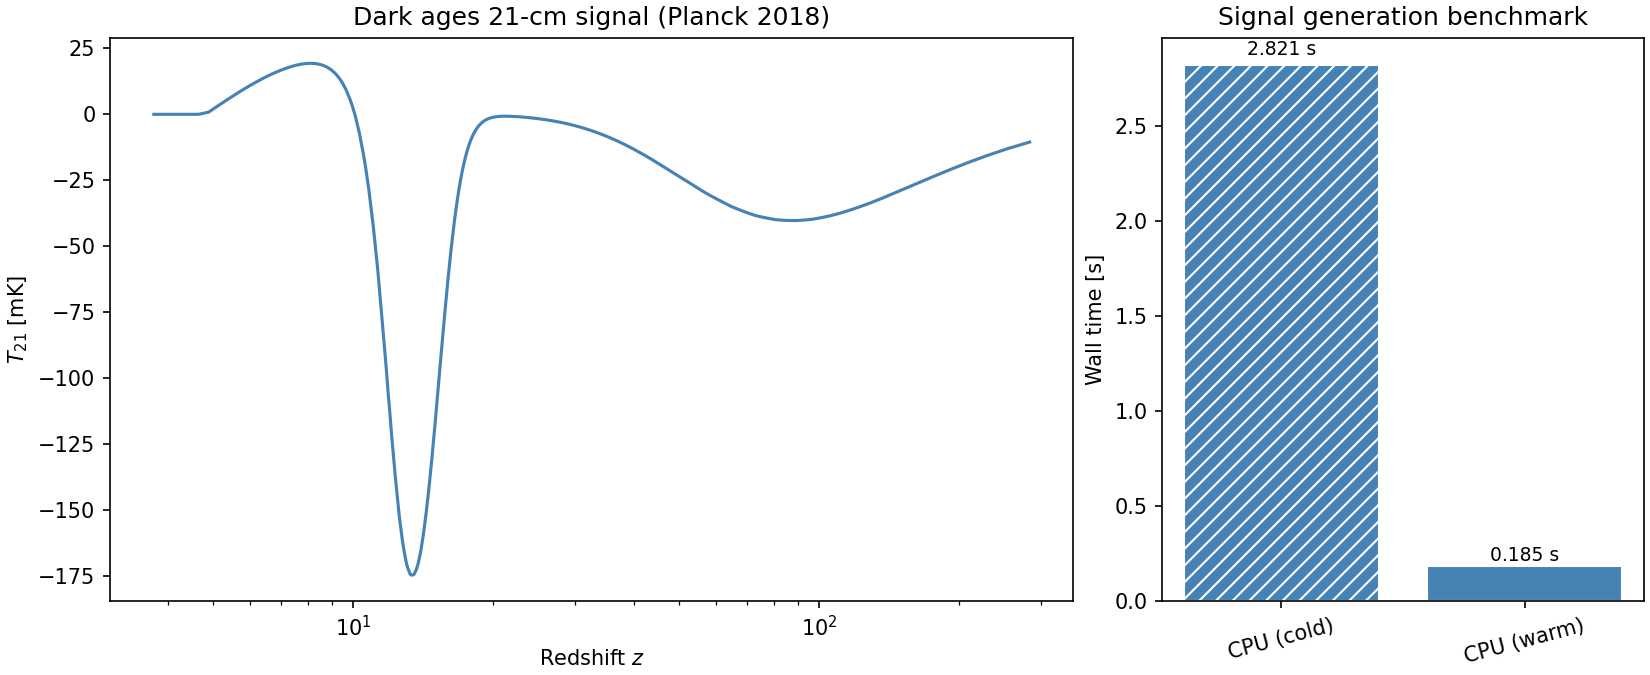
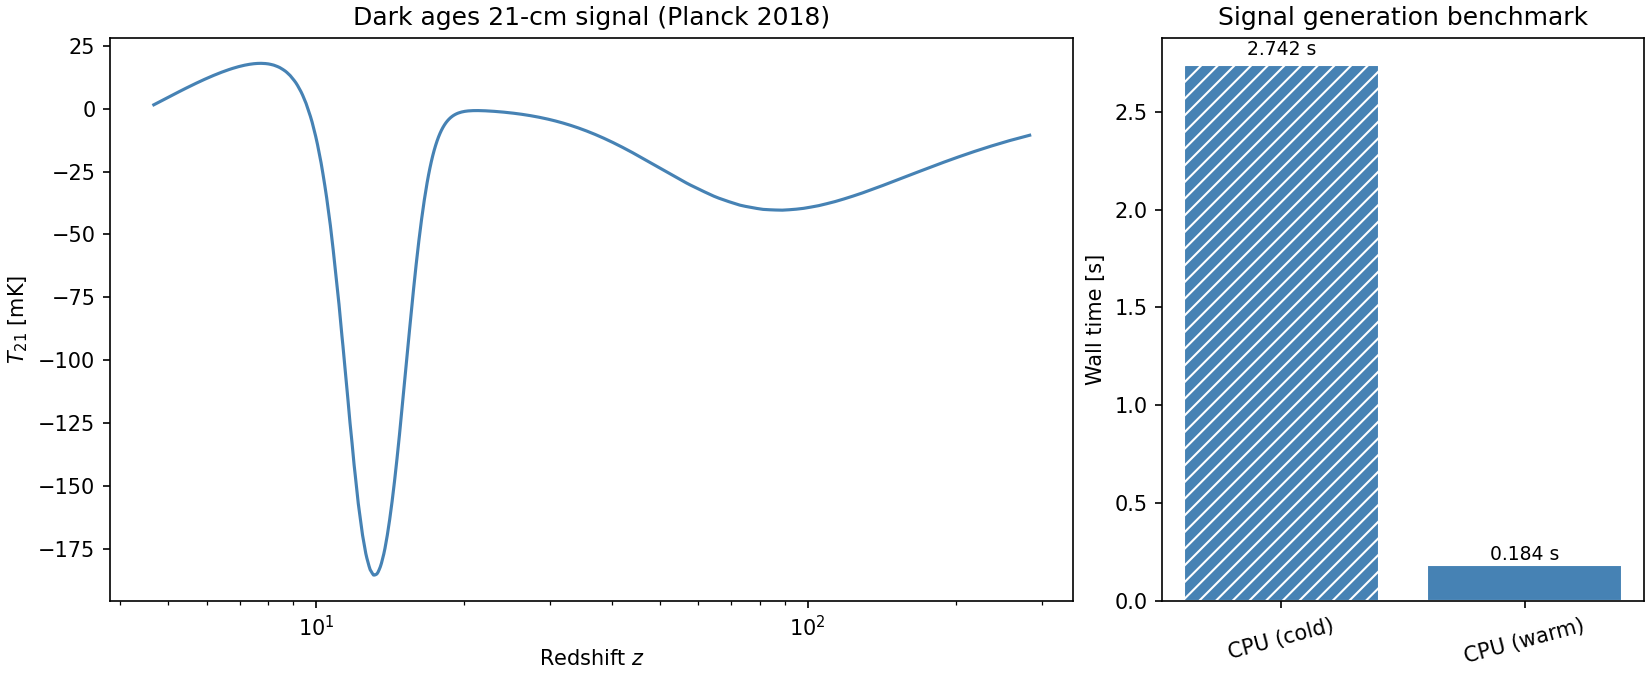
tweak fgrid and print z max and min

diff --git a/bin/benchmark.py b/bin/benchmark.py
@@ -7,6 +7,7 @@ from pathlib import Path
 sys.path.insert(0, str(Path(__file__).resolve().parent.parent))
 
 from jax import config
+
 config.update("jax_enable_x64", True)
 
 import jax
@@ -28,7 +29,7 @@ planck = cosmology()
 
 astro = astrophysics()
 
-f_grid = jnp.linspace(5.0, 300.0, 500)  # MHz
+f_grid = jnp.linspace(5.0, 250.0, 500)  # MHz
 
 
 def time_device(device: jax.Device) -> tuple[float, float]:
@@ -93,6 +94,7 @@ ax_bar = fig.add_subplot(gs[0, 2])
 
 # Signal
 z_grid = 1420.4 / np.array(f_grid) - 1
+print("z_grid:", z_grid.min(), "-", z_grid.max())
 ax_sig.plot(z_grid, np.array(signal), color="steelblue", lw=1.5)
 ax_sig.set_xlabel("Redshift $z$")
 ax_sig.set_ylabel(r"$T_{21}$ [mK]")
